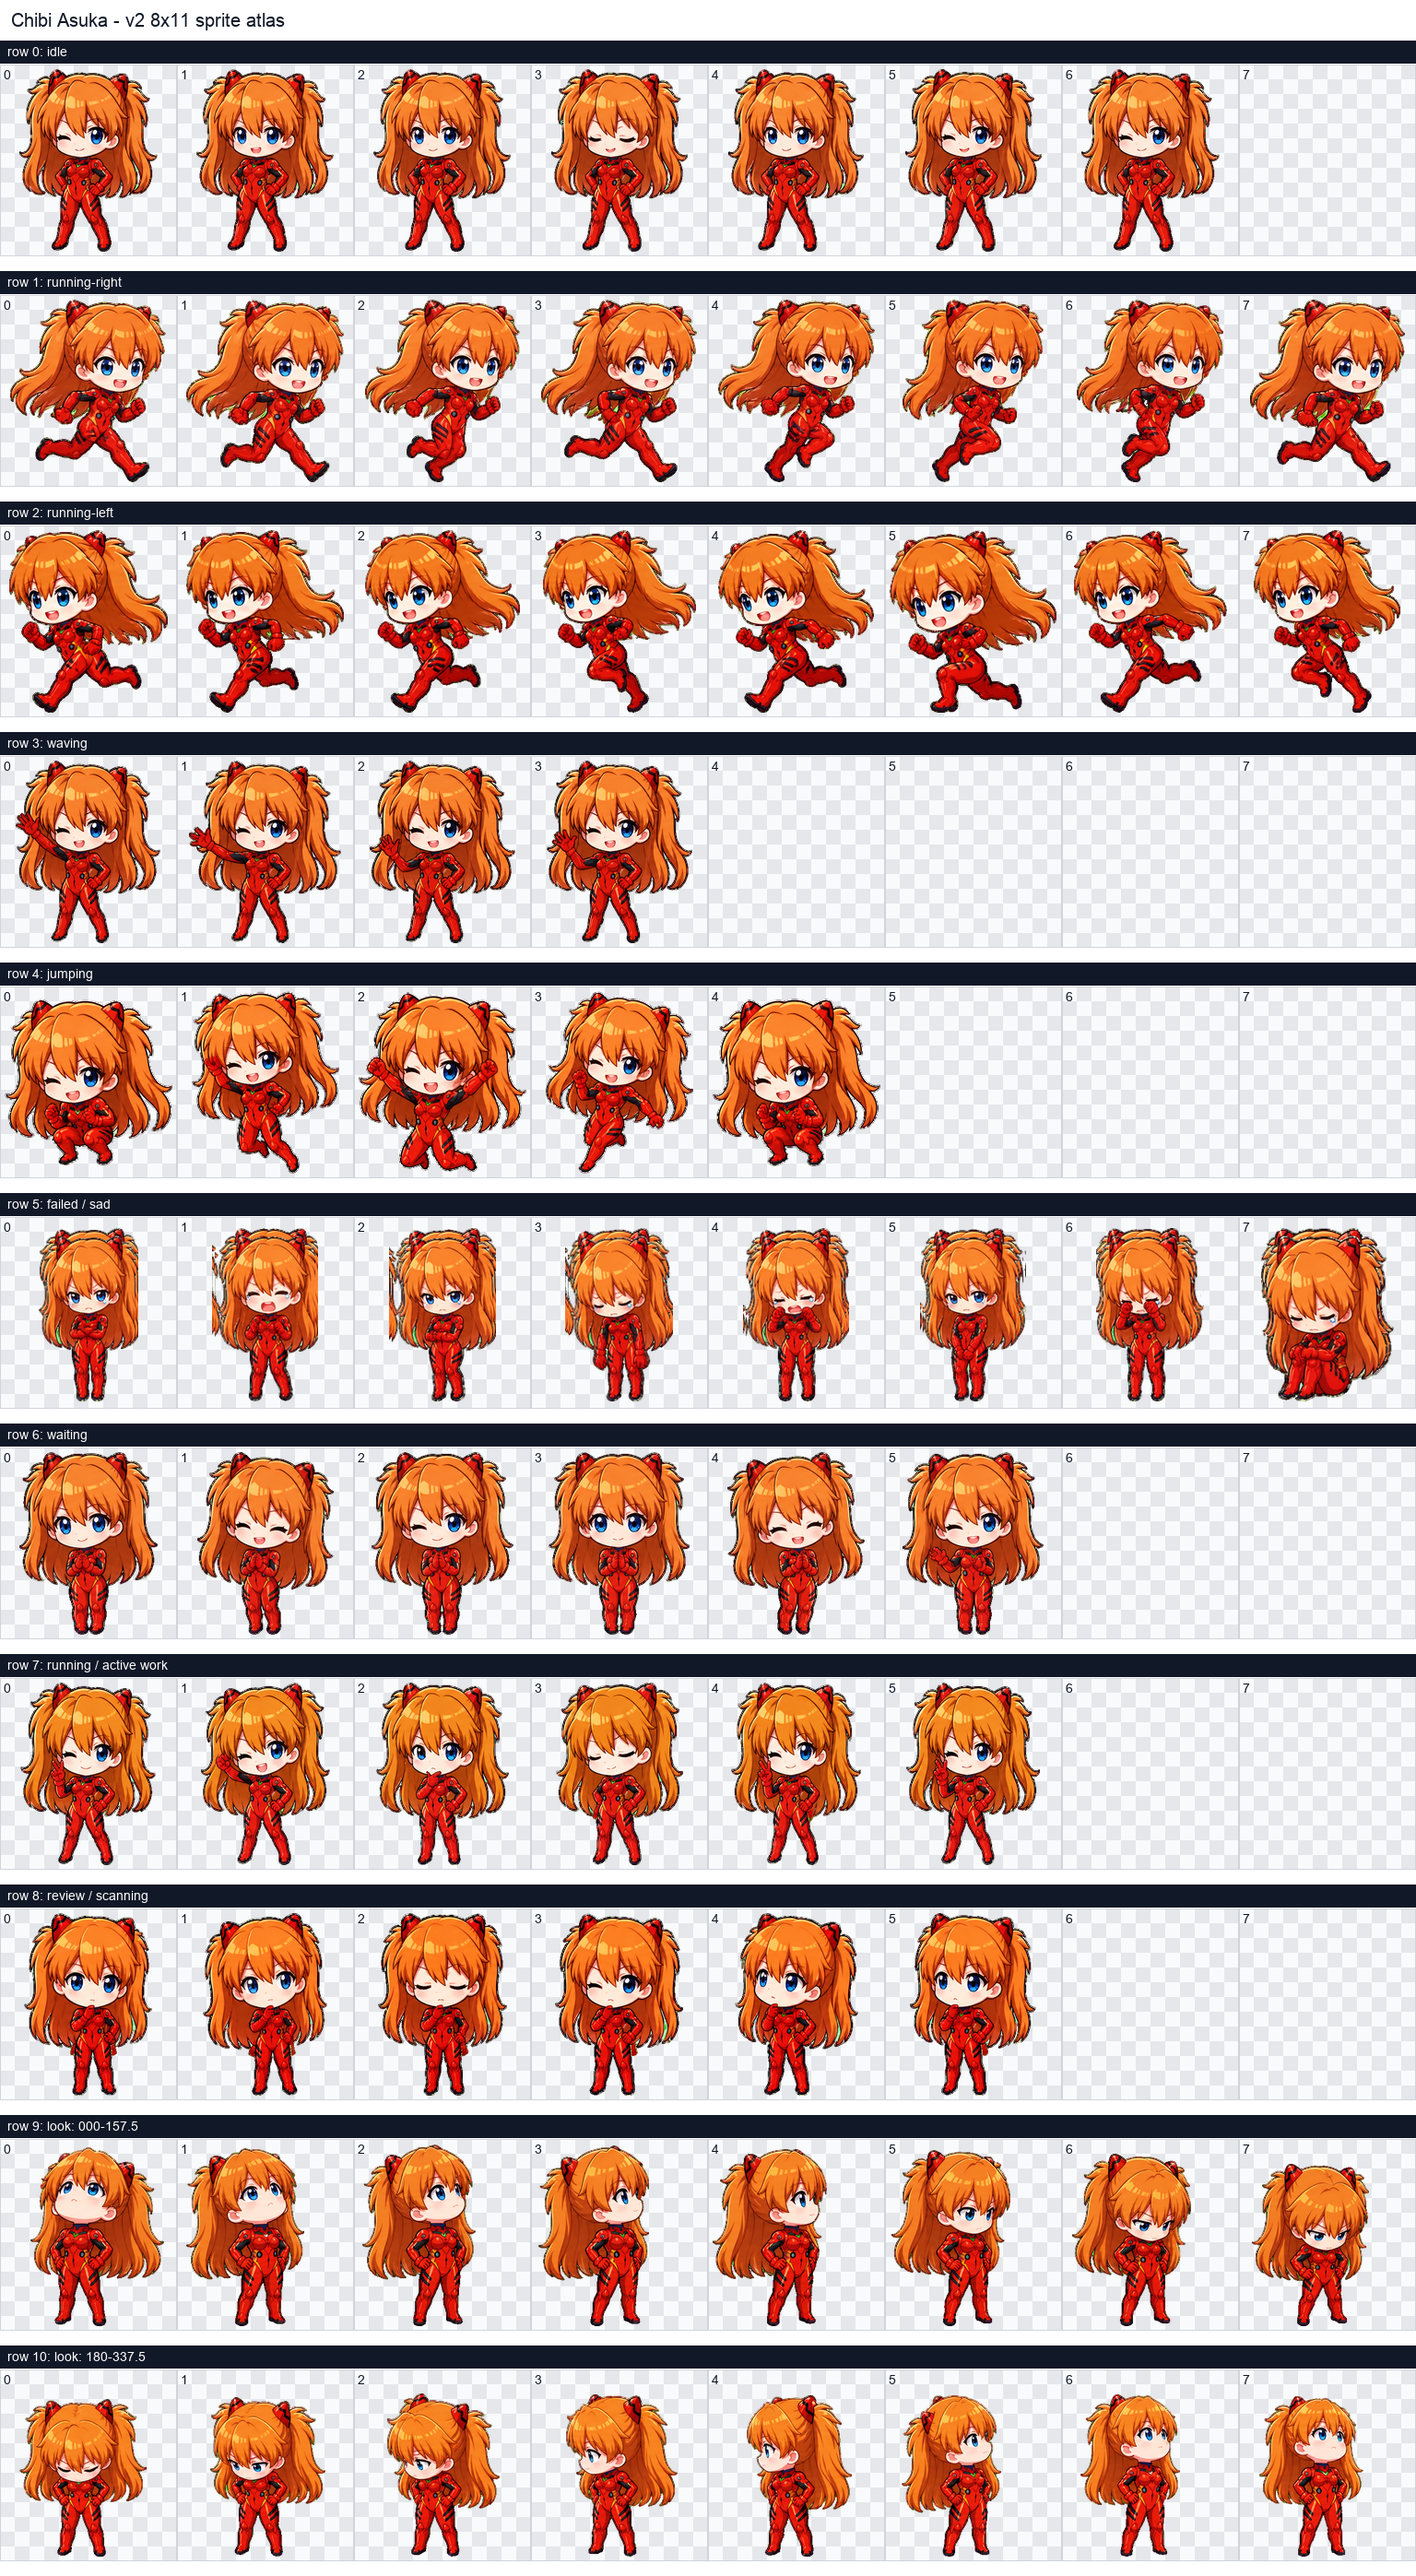
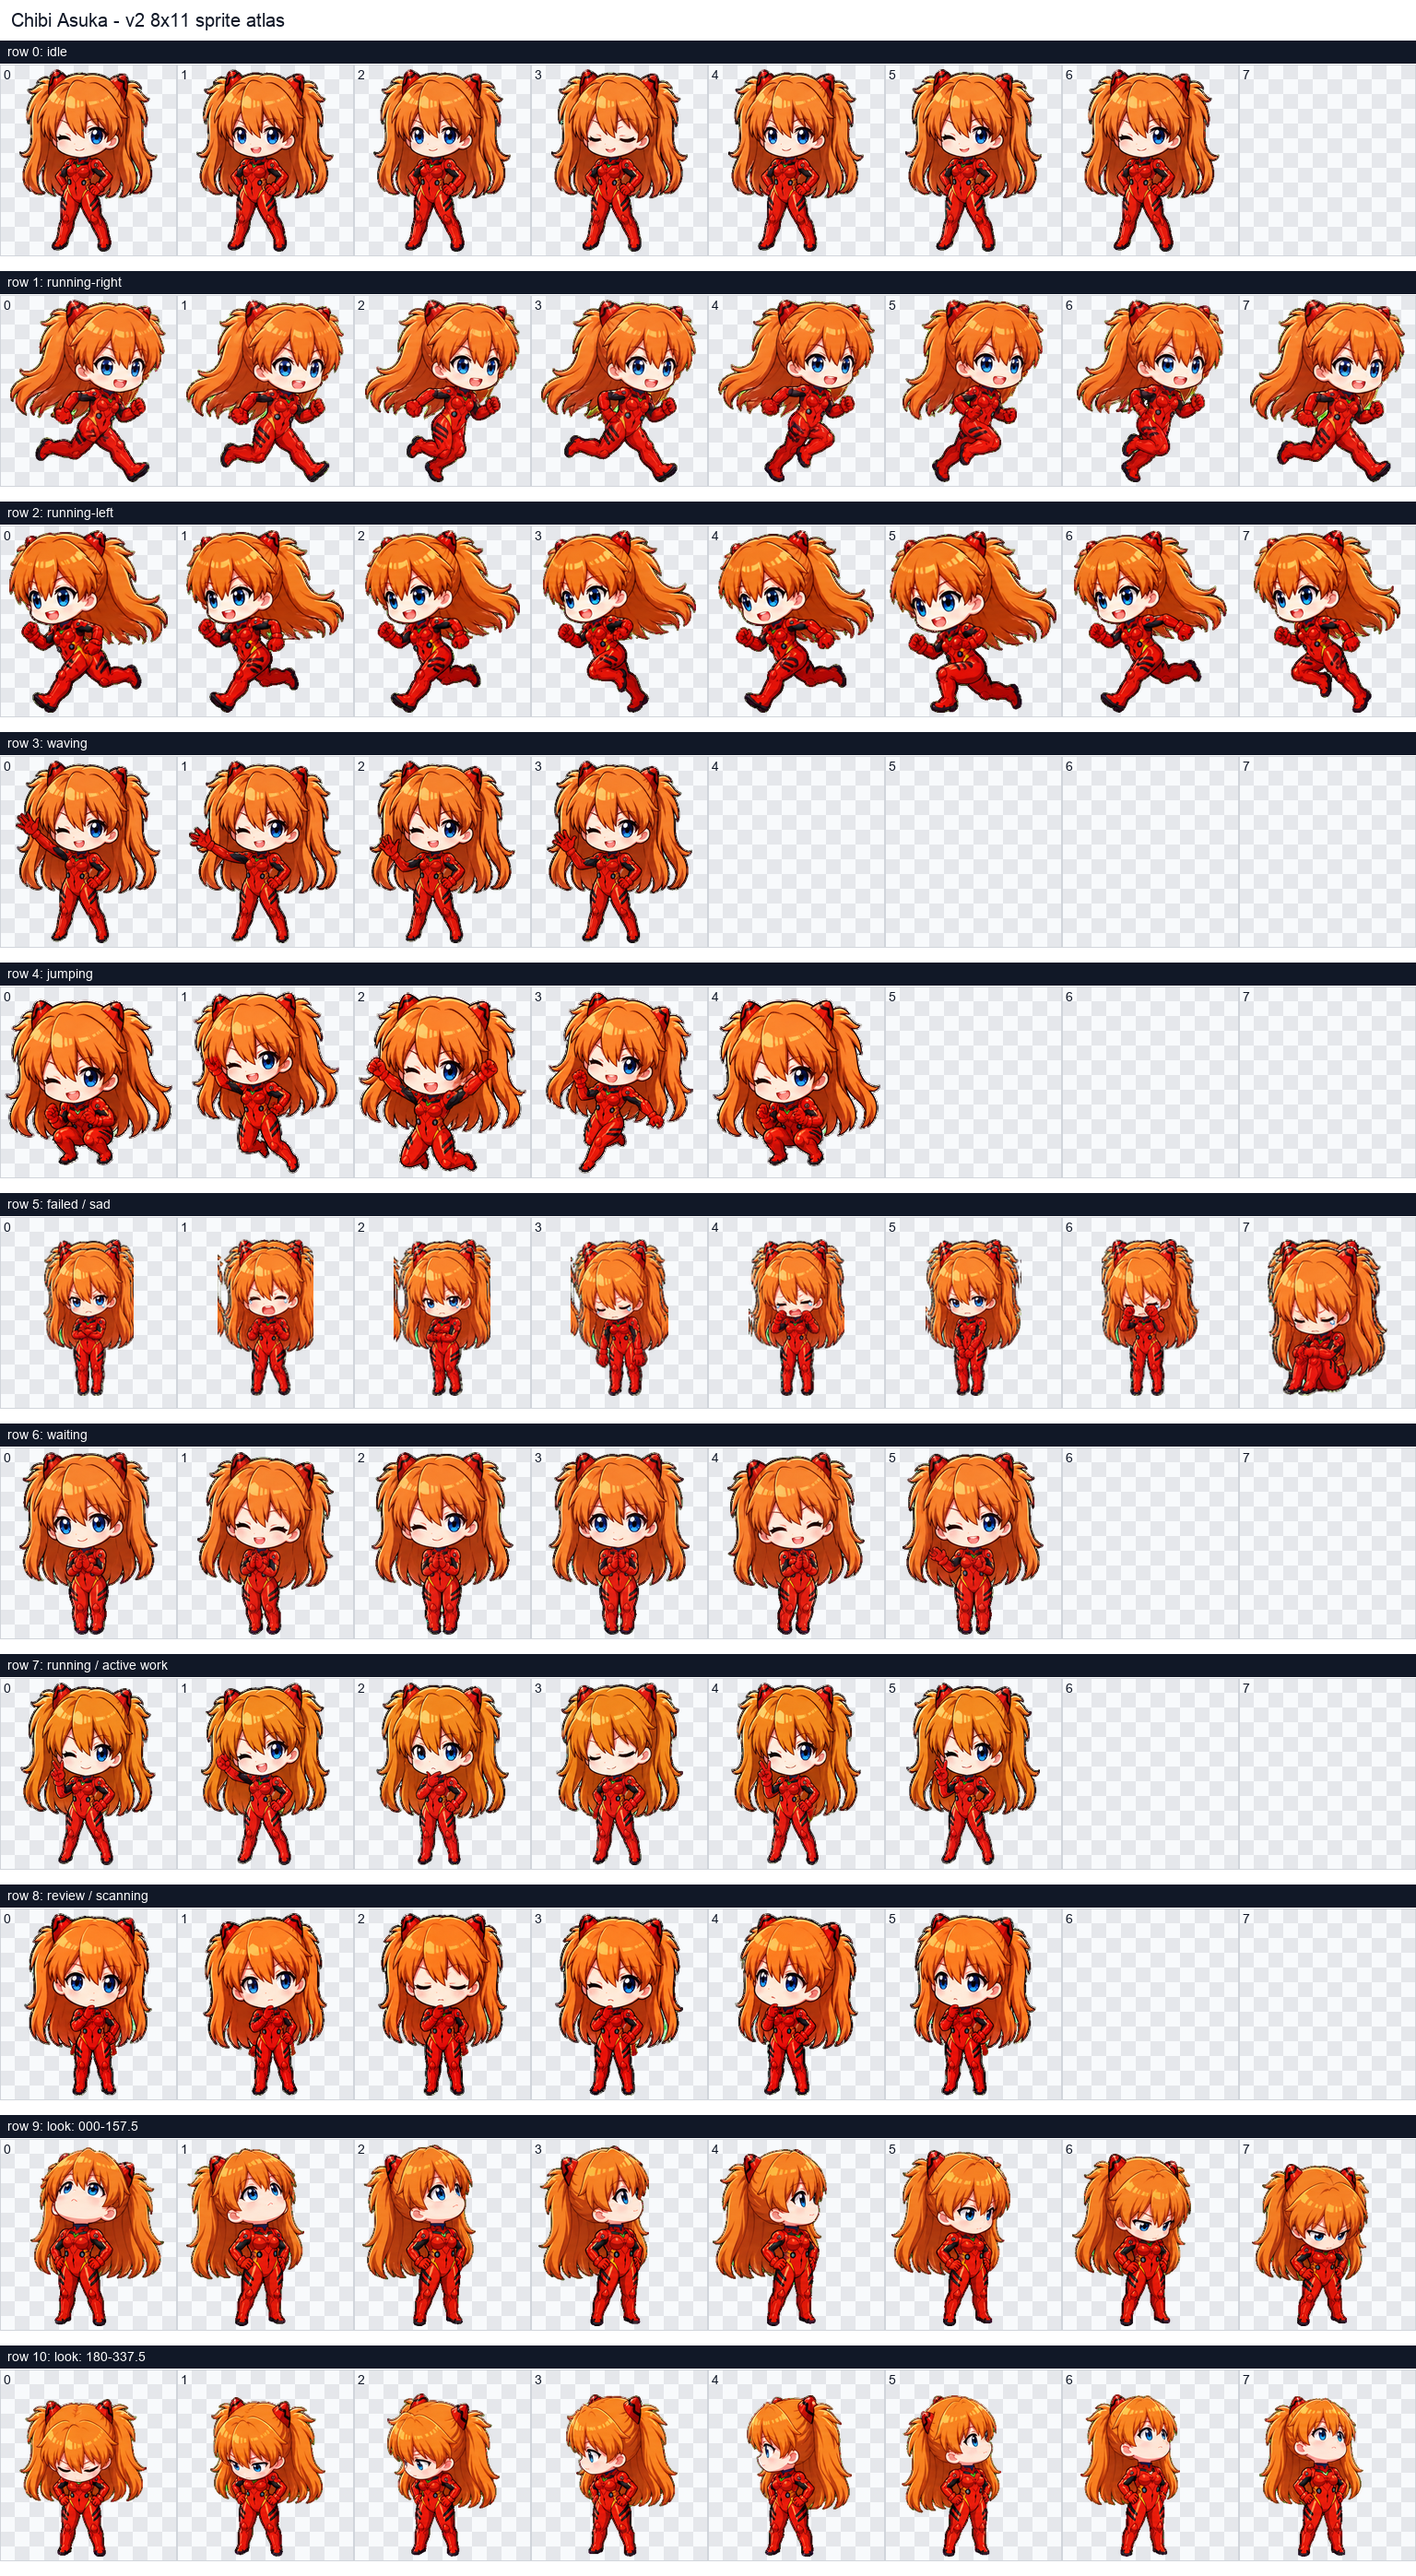
Add padding to Chibi Asuka sad animation

diff --git a/tools/render_showcase_assets.py b/tools/render_showcase_assets.py
@@ -15,6 +15,9 @@ PETS = [
 CELL_W = 192
 CELL_H = 208
 SCALE = 2
+GIF_PADDING = {
+    ("chibi-asuka", "sad"): (0, 24, 0, 0),
+}
 
 
 def font(size: int) -> ImageFont.ImageFont:
@@ -54,14 +57,30 @@ def scale_cell(cell: Image.Image, scale: int = SCALE) -> Image.Image:
     return cell.resize((CELL_W * scale, CELL_H * scale), Image.Resampling.NEAREST)
 
 
+def pad_cell(cell: Image.Image, padding: tuple[int, int, int, int]) -> Image.Image:
+    left, top, right, bottom = padding
+    if not any(padding):
+        return cell
+    out = Image.new("RGBA", (cell.width + left + right, cell.height + top + bottom), (0, 0, 0, 0))
+    out.alpha_composite(cell, (left, top))
+    return out
+
+
 def composite_cell(cell: Image.Image, bg: str = "#f8fafc") -> Image.Image:
     out = Image.new("RGBA", cell.size, bg)
     out.alpha_composite(cell)
     return out.convert("P", palette=Image.Palette.ADAPTIVE)
 
 
-def save_gif(sheet: Image.Image, frames: list[int], out: Path, fps: int) -> None:
-    rendered = [composite_cell(scale_cell(crop_cell(sheet, idx))) for idx in frames]
+def save_gif(
+    sheet: Image.Image,
+    frames: list[int],
+    out: Path,
+    fps: int,
+    padding: tuple[int, int, int, int] = (0, 0, 0, 0),
+) -> None:
+    scaled_padding = tuple(value * SCALE for value in padding)
+    rendered = [composite_cell(pad_cell(scale_cell(crop_cell(sheet, idx)), scaled_padding)) for idx in frames]
     duration = max(60, int(1000 / max(1, fps)))
     rendered[0].save(
         out,
@@ -154,7 +173,8 @@ def main() -> None:
         save_screenshot(sheet, pet_name, showcase_dir / "in-action.png")
 
         for state, cfg in pet_json["animations"].items():
-            save_gif(sheet, cfg["frames"], animations_dir / f"{state}.gif", cfg.get("fps", 8))
+            padding = GIF_PADDING.get((pet_id, state), (0, 0, 0, 0))
+            save_gif(sheet, cfg["frames"], animations_dir / f"{state}.gif", cfg.get("fps", 8), padding)
         save_look_gif(sheet, animations_dir / "look-directions.gif")
 
 
